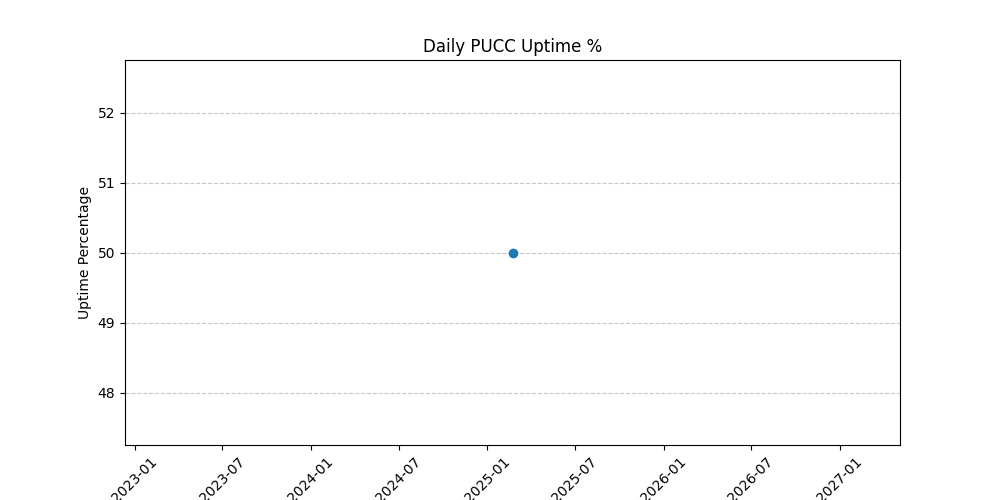
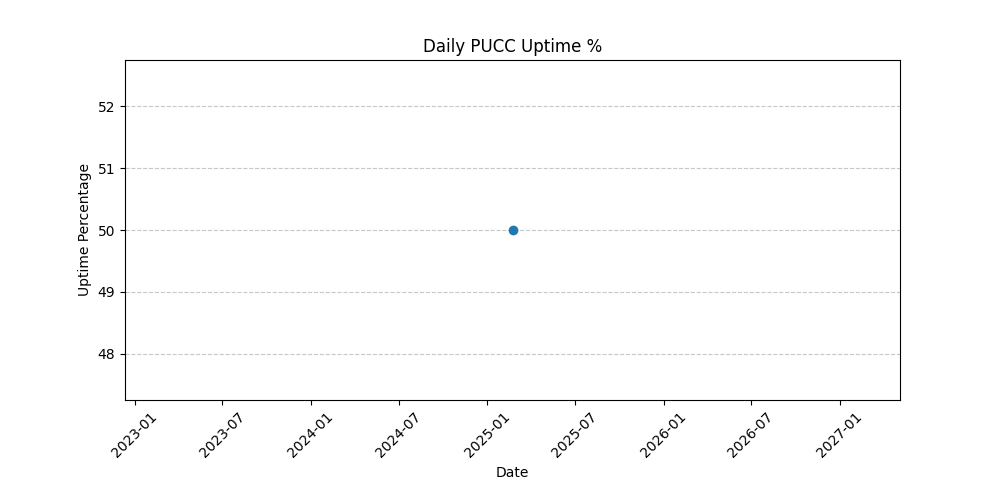
deploy: 10feba9f67e0002118874d290fe59e500f7b1bbb

diff --git a/report/pucc_analysis_report.html b/report/pucc_analysis_report.html
@@ -58,5 +58,38 @@
   </tbody>
 </table>
   <img src="daily_uptime_percentage.png" alt="Daily Uptime %">
+
+  <h2>Availability Changes</h2>
+  <p>This table shows all available-to-unavailable changes and their times.</p>
+  <table border="1" class="dataframe">
+  <thead>
+    <tr style="text-align: right;">
+      <th>Timestamp</th>
+      <th>Date</th>
+      <th>Change Time</th>
+      <th>New Status</th>
+    </tr>
+  </thead>
+  <tbody>
+    <tr>
+      <td>2025-02-22 19:02:52</td>
+      <td>2025-02-22</td>
+      <td>2025-02-22 19:02:52</td>
+      <td>Unavailable</td>
+    </tr>
+    <tr>
+      <td>2025-02-22 19:17:28</td>
+      <td>2025-02-22</td>
+      <td>2025-02-22 19:17:28</td>
+      <td>Unavailable</td>
+    </tr>
+    <tr>
+      <td>2025-02-22 19:17:30</td>
+      <td>2025-02-22</td>
+      <td>2025-02-22 19:17:30</td>
+      <td>Unavailable</td>
+    </tr>
+  </tbody>
+</table>
 </body>
 </html>

diff --git a/report/analyze_pucc_logs.py b/report/analyze_pucc_logs.py
@@ -20,7 +20,7 @@ daily_downtime = df[df['New Status'] == 'Unavailable'].groupby('Date')['Duration
 daily_status_counts = df.groupby(['Date', 'New Status']).size().unstack(fill_value=0)
 daily_status_counts['Uptime %'] = (daily_status_counts['Available'] / (daily_status_counts['Available'] + daily_status_counts['Unavailable'])) * 100
 
-# Generate visualizations
+# Generate visualizations with increased margin
 plt.figure(figsize=(10, 5))
 daily_downtime.plot(kind='bar', color='darkred')
 plt.xlabel("Date")
@@ -28,6 +28,7 @@ plt.ylabel("Total Minutes Offline")
 plt.title("PUCC Daily Downtime (Minutes)")
 plt.xticks(rotation=45)
 plt.grid(axis='y', linestyle='--', alpha=0.7)
+plt.subplots_adjust(bottom=0.2)  # Increase bottom margin
 plt.savefig("daily_downtime.png")
 
 plt.figure(figsize=(10, 5))
@@ -37,7 +38,13 @@ plt.ylabel("Uptime Percentage")
 plt.title("Daily PUCC Uptime %")
 plt.xticks(rotation=45)
 plt.grid(axis='y', linestyle='--', alpha=0.7)
+plt.subplots_adjust(bottom=0.2)  # Increase bottom margin
 plt.savefig("daily_uptime_percentage.png")
+
+# Create table of available-to-unavailable changes and times
+availability_changes = df[df['New Status'] == 'Unavailable'].copy()
+availability_changes['Change Time'] = availability_changes['Timestamp'].dt.strftime('%Y-%m-%d %H:%M:%S')
+availability_table_html = availability_changes[['Timestamp', 'Date', 'Change Time', 'New Status']].to_html(index=False)
 
 # Convert downtime and uptime data to HTML tables
 daily_downtime_html = daily_downtime.to_frame().rename(columns={"Duration": "Total Minutes Offline"}).to_html()
@@ -70,6 +77,10 @@ html_report = f"""
   <p>This table shows the percentage of time PUCC was available each day.</p>
   {daily_uptime_html}
   <img src="daily_uptime_percentage.png" alt="Daily Uptime %">
+
+  <h2>Availability Changes</h2>
+  <p>This table shows all available-to-unavailable changes and their times.</p>
+  {availability_table_html}
 </body>
 </html>
 """
